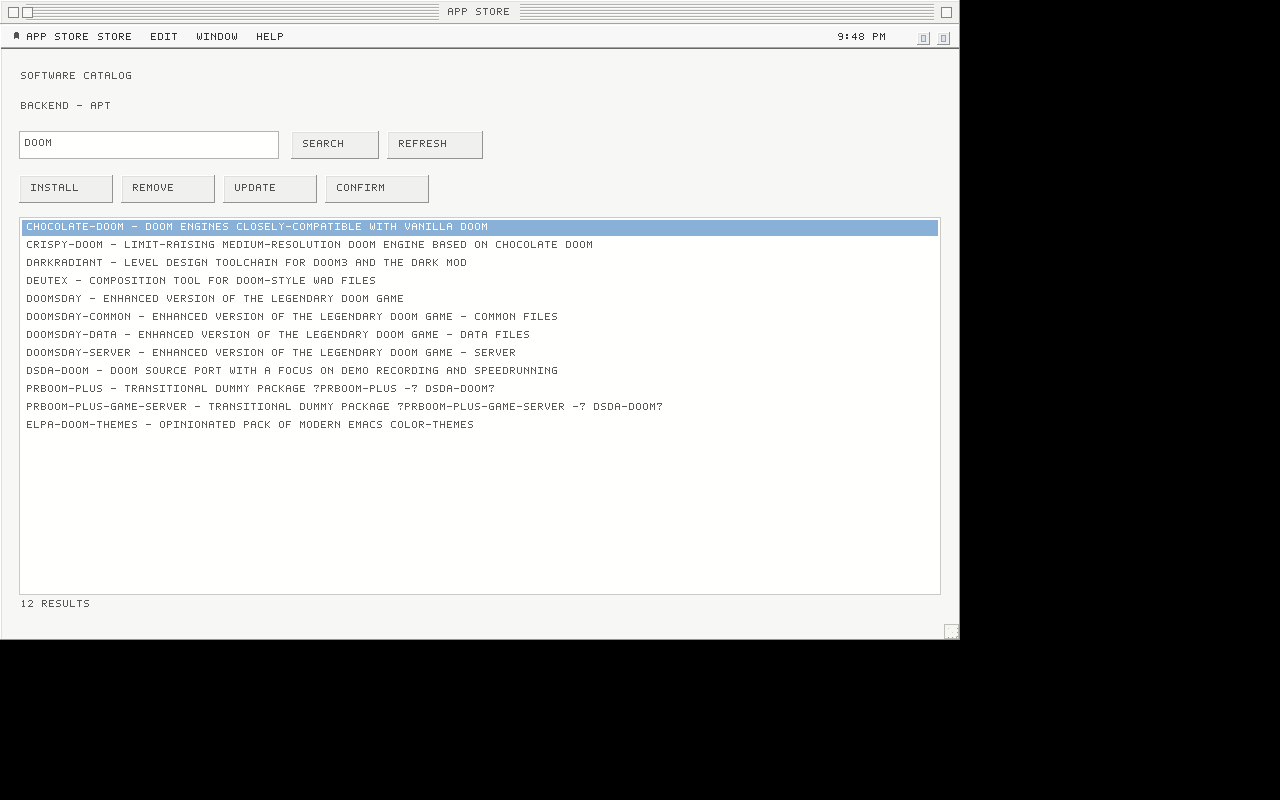
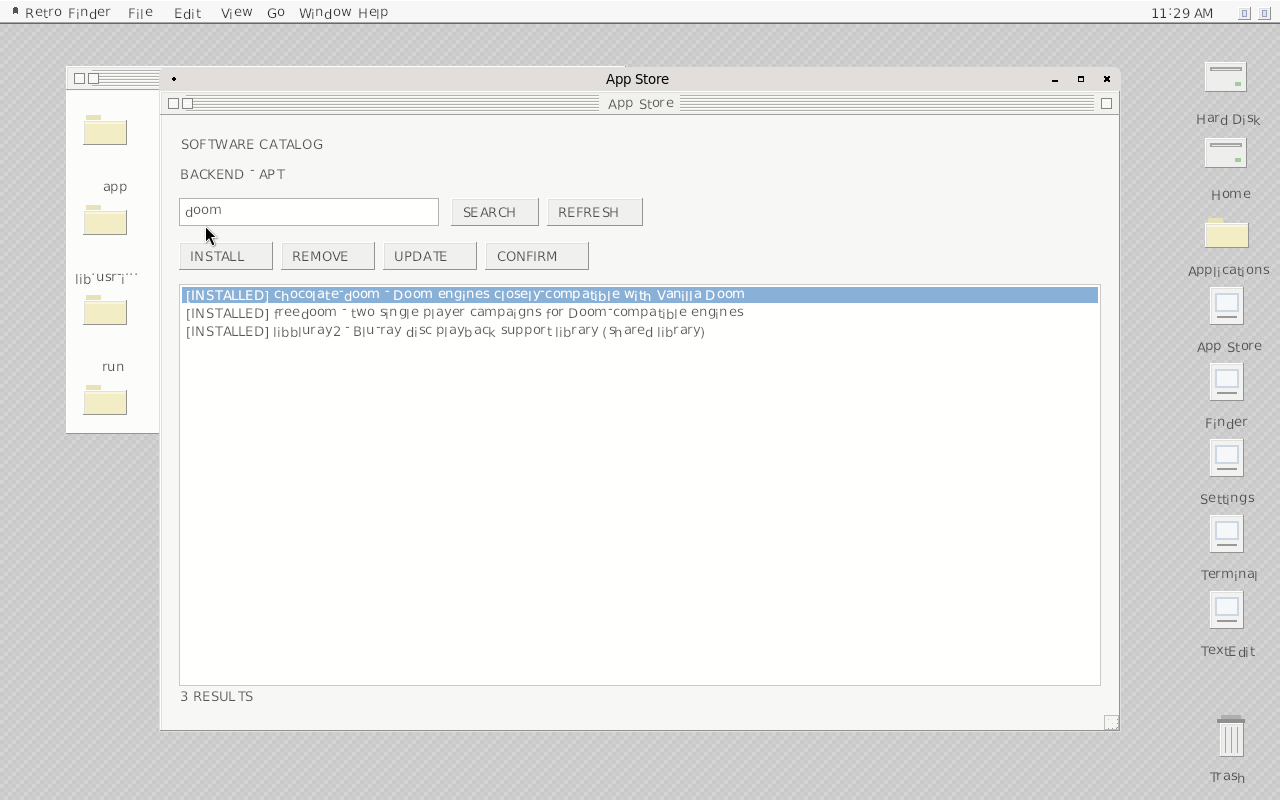
Annotate App Store package install state

diff --git a/apps/appstore/src/main.rs b/apps/appstore/src/main.rs
@@ -106,6 +106,33 @@ impl PackageManager {
         }
     }
 
+    fn installed_query_command(self, package: &str) -> (&'static str, Vec<String>) {
+        match self {
+            Self::Apt => (
+                "dpkg-query",
+                vec!["-W".into(), "-f=${Status}".into(), package.into()],
+            ),
+            Self::Dnf => ("rpm", vec!["-q".into(), package.into()]),
+            Self::Pacman => ("pacman", vec!["-Q".into(), package.into()]),
+            Self::Pkg => ("pkg", vec!["info".into(), package.into()]),
+            Self::Apk => ("apk", vec!["info".into(), "-e".into(), package.into()]),
+            Self::Zypper => (
+                "zypper",
+                vec![
+                    "--non-interactive".into(),
+                    "se".into(),
+                    "-i".into(),
+                    "-x".into(),
+                    package.into(),
+                ],
+            ),
+            Self::Brew => (
+                "brew",
+                vec!["list".into(), "--versions".into(), package.into()],
+            ),
+        }
+    }
+
     fn transaction_command(self, action: PackageAction, package: &str) -> Vec<String> {
         match (self, action) {
             (Self::Apt, PackageAction::Install) => {
@@ -178,6 +205,23 @@ impl PackageAction {
     }
 }
 
+#[derive(Debug, Clone, Copy, PartialEq, Eq)]
+enum PackageInstallState {
+    Installed,
+    Available,
+    Unknown,
+}
+
+impl PackageInstallState {
+    fn label(self) -> &'static str {
+        match self {
+            Self::Installed => "INSTALLED",
+            Self::Available => "AVAILABLE",
+            Self::Unknown => "UNKNOWN",
+        }
+    }
+}
+
 #[derive(Debug, Clone, PartialEq, Eq)]
 struct TransactionPlan {
     action: PackageAction,
@@ -243,7 +287,7 @@ impl PackageBackend {
         } else {
             String::from_utf8_lossy(&output.stderr).to_string()
         };
-        let results = parse_search_results(&text, 12);
+        let results = annotate_search_results(manager, parse_search_results(&text, 12));
         if results.is_empty() {
             Ok(vec![format!(
                 "NO RESULTS FOR {}",
@@ -339,7 +383,46 @@ fn parse_search_results(output: &str, limit: usize) -> Vec<String> {
         .collect()
 }
 
+fn annotate_search_results(manager: PackageManager, results: Vec<String>) -> Vec<String> {
+    results
+        .into_iter()
+        .map(|line| {
+            let state = package_name_from_result(&line)
+                .map(|package| package_state_for_manager(manager, &package))
+                .unwrap_or(PackageInstallState::Unknown);
+            format!("[{}] {}", state.label(), line)
+        })
+        .collect()
+}
+
+fn package_state_for_manager(manager: PackageManager, package: &str) -> PackageInstallState {
+    let (binary, args) = manager.installed_query_command(package);
+    let Ok(output) = Command::new(binary).args(args).output() else {
+        return PackageInstallState::Unknown;
+    };
+
+    if !output.status.success() {
+        return PackageInstallState::Available;
+    }
+
+    if manager == PackageManager::Apt {
+        let stdout = String::from_utf8_lossy(&output.stdout);
+        if stdout.contains("install ok installed") {
+            PackageInstallState::Installed
+        } else {
+            PackageInstallState::Available
+        }
+    } else {
+        PackageInstallState::Installed
+    }
+}
+
 fn package_name_from_result(result: &str) -> Option<String> {
+    let result = result
+        .strip_prefix("[INSTALLED] ")
+        .or_else(|| result.strip_prefix("[AVAILABLE] "))
+        .or_else(|| result.strip_prefix("[UNKNOWN] "))
+        .unwrap_or(result);
     let first = result.split_whitespace().next()?.trim();
     let name = first
         .rsplit_once('/')
@@ -737,6 +820,18 @@ mod tests {
     }
 
     #[test]
+    fn package_manager_builds_installed_query_command() {
+        let (binary, args) = PackageManager::Apt.installed_query_command("doom");
+
+        assert_eq!(binary, "dpkg-query");
+        assert_eq!(args, vec!["-W", "-f=${Status}", "doom"]);
+
+        let (binary, args) = PackageManager::Pacman.installed_query_command("doom");
+        assert_eq!(binary, "pacman");
+        assert_eq!(args, vec!["-Q", "doom"]);
+    }
+
+    #[test]
     fn appstore_search_reports_missing_backend() {
         let view = AppStoreView::new(PackageBackend { manager: None });
 
@@ -766,6 +861,22 @@ mod tests {
             package_name_from_result("freedoom - data files").as_deref(),
             Some("freedoom")
         );
+        assert_eq!(
+            package_name_from_result("[INSTALLED] doom - game").as_deref(),
+            Some("doom")
+        );
+    }
+
+    #[test]
+    fn annotate_search_results_adds_package_state_prefix() {
+        let results = annotate_search_results(
+            PackageManager::Apt,
+            vec!["definitely-not-installed-retroshell-test-package - demo".to_string()],
+        );
+
+        assert_eq!(results.len(), 1);
+        assert!(results[0].starts_with("[AVAILABLE] ") || results[0].starts_with("[UNKNOWN] "));
+        assert!(results[0].contains("definitely-not-installed-retroshell-test-package"));
     }
 
     #[test]

diff --git a/README.md b/README.md
@@ -87,6 +87,10 @@ Still not done:
 
 ![RetroShell Settings Display pane](docs/screenshots/current-settings.png)
 
+![RetroShell App Store package search](docs/screenshots/current-appstore.png)
+
+App Store search rows now include package installed state from the detected package manager, with package-changing transactions still gated by `RETROSHELL_APPSTORE_ALLOW_PACKAGE_CHANGES=1`.
+
 ![RetroShell minimized Finder window](docs/screenshots/current-minimized-window.png)
 
 ![RetroShell About window](docs/screenshots/current-about-window.png)

diff --git a/docs/implementation_plan.md b/docs/implementation_plan.md
@@ -5,6 +5,8 @@
 >
 > 2026-07-03 Settings update: Settings now has functional category panes across General, Appearance, Desktop & Dock, Display, Sound, Network, Keyboard, Mouse, Accessibility, Privacy & Security, and Notifications. Settings persist to `settings.conf`; HDR/VRR are exposed as honest session preferences, not compositor-level output control.
 >
+> 2026-07-03 App Store update: App Store package-manager integration now annotates search rows with installed/available/unknown state through each detected backend's read-only package query, while package-changing transactions remain explicitly gated.
+>
 > 2026-07-03 coverage update: desktop icon right-column layout and minute-precision menu clock formatting now have automated tests, reducing the remaining Tier 1 uncertainty to visual/style polish rather than unverified behavior.
 >
 > 2026-07-03 SDK menu update: first-party SDK menu manifests now auto-fill stable bundle-scoped action IDs for action items that apps define without explicit IDs. VM runtime verification confirmed TextEdit publishes routable app/File menu actions such as `com.retro.textedit.file.save_as`.